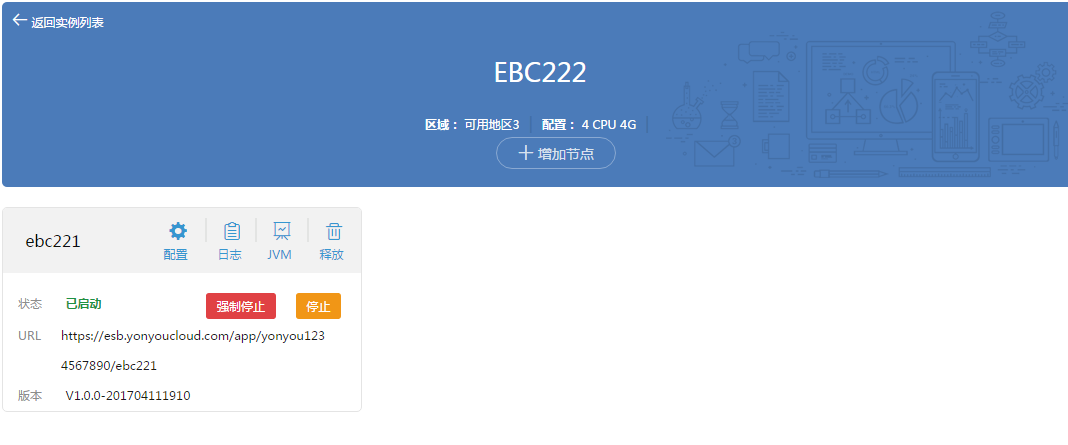
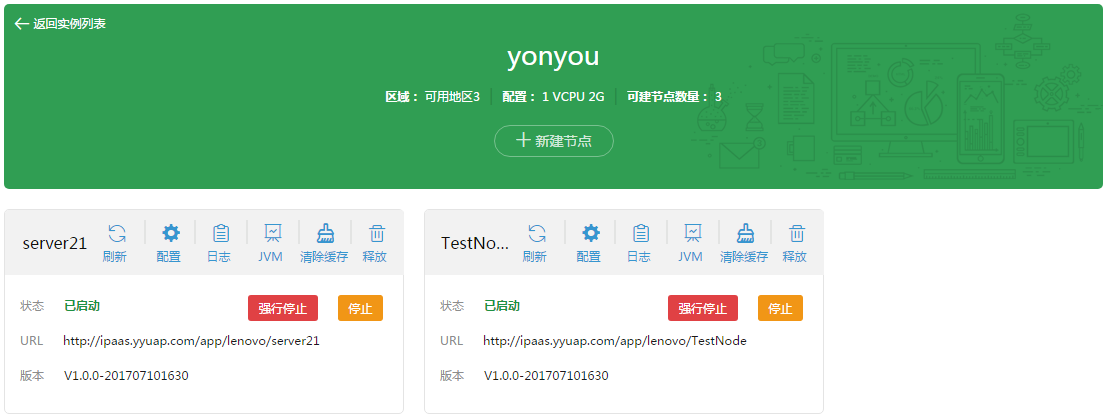
Updates articles/cesb/5-/zhi_yuan_guan_li.md
Auto commit by GitBook Editor

diff --git a/articles/cesb/5-/zhi_yuan_guan_li.md b/articles/cesb/5-/zhi_yuan_guan_li.md
@@ -94,11 +94,9 @@
 
 图2.1‑9实例管理
 
-
-
 **新建节点**
 
-单击〖增加节点〗按钮，弹出一个窗口，填写相应内容（*表示必填项）后，单击〖确定〗，完成服务器节点的注册。
+单击〖新建节点〗按钮，弹出一个窗口，填写相应内容（*表示必填项）后，单击〖确定〗，完成服务器节点的注册。
 
 ![](/assets/5-/image27.png)
 
